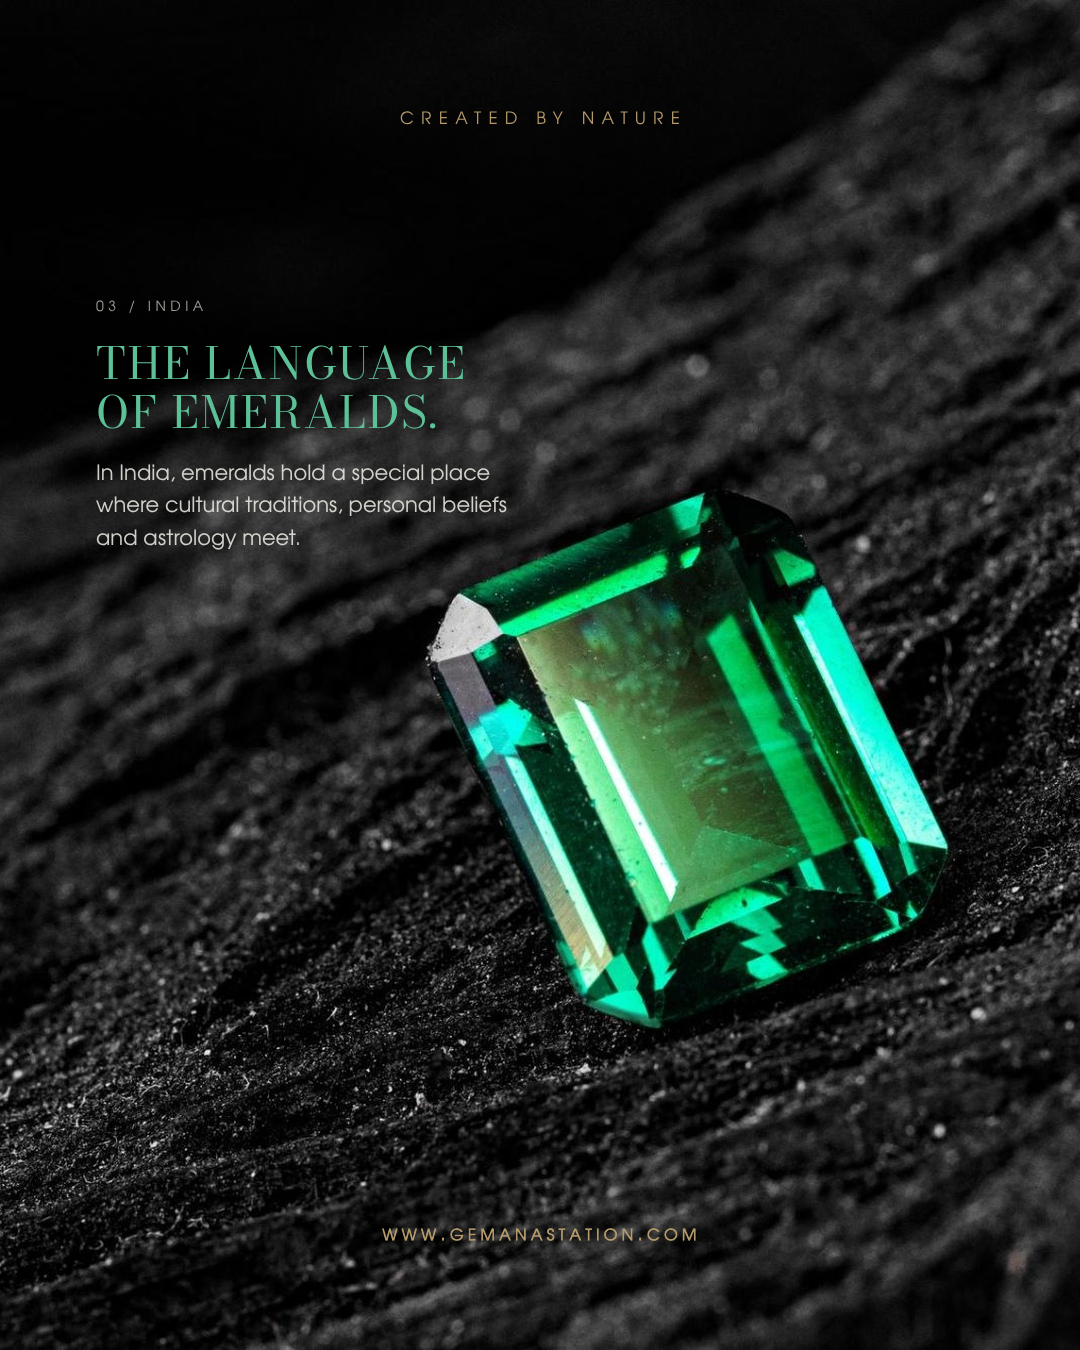
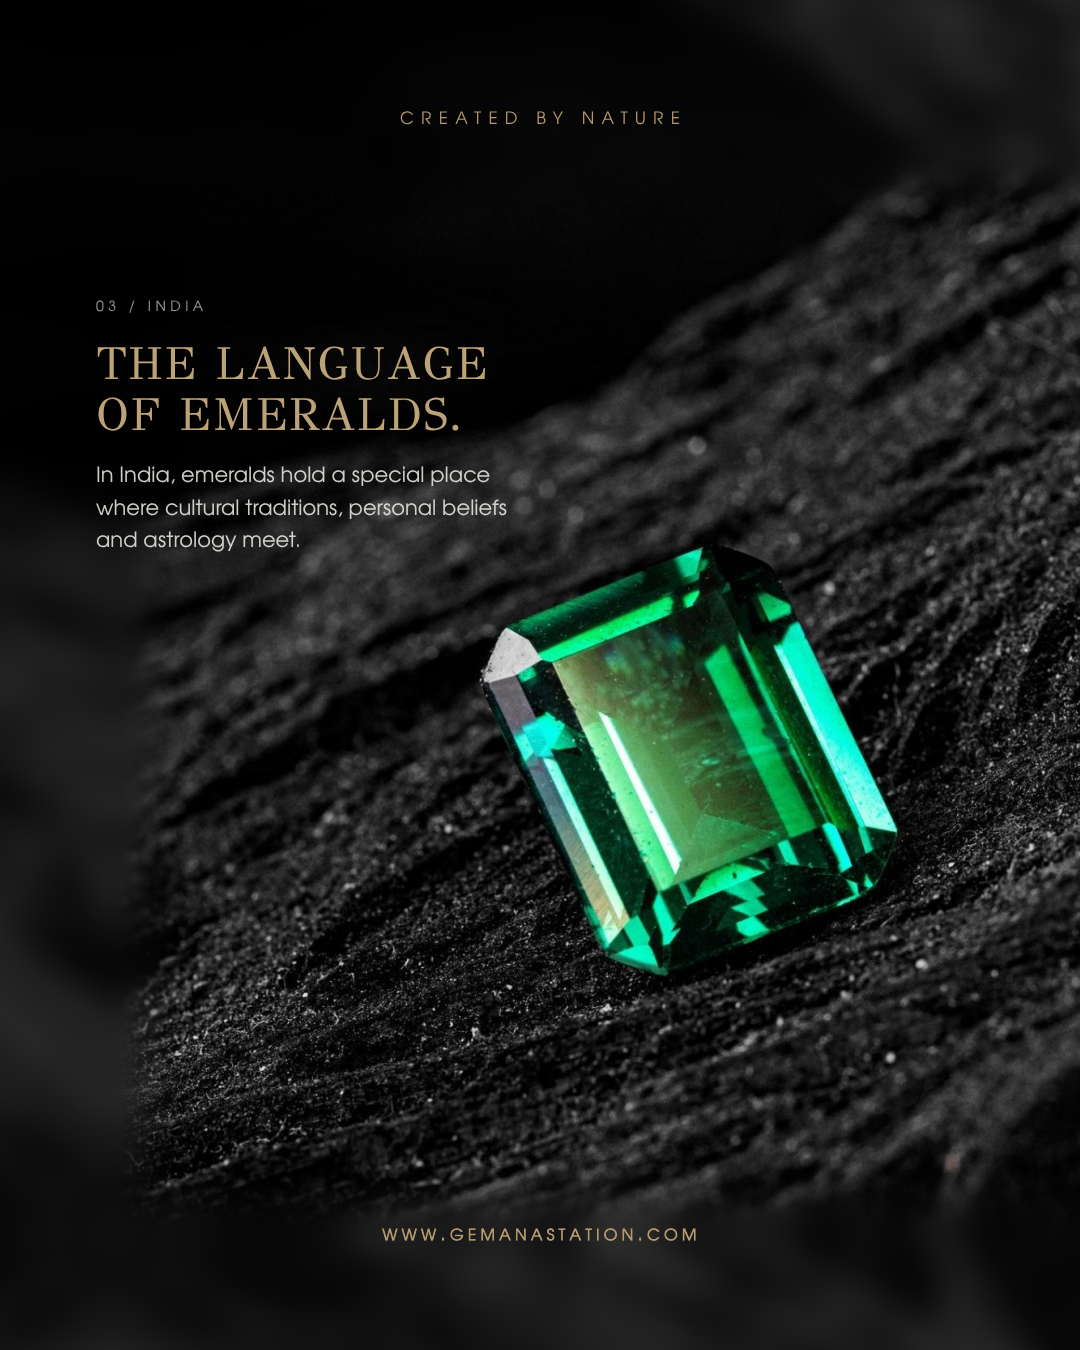
Cultural Choice: smaller stones, gold GFS Didot headlines
Claude-Session: https://claude.ai/code/session_01DPJpbdE4xE8Jg3JGMEEyZy

diff --git a/gem-anastation-reels/cultural_choice/slides.html b/gem-anastation-reels/cultural_choice/slides.html
@@ -11,15 +11,18 @@
   .group { position: absolute; width: 440px; }
   .idx { font-family: "AvantGarde"; font-size: 14px; letter-spacing: .32em; text-transform: uppercase;
     color: rgba(236,232,224,.66); }
-  h1 { margin: 22px 0 0; font-family: "Didot Title"; font-weight: 400; font-size: 44px; line-height: 1.12;
-    letter-spacing: .04em; text-transform: uppercase; }
+  /* Headlines: GFS Didot (a Didot revival; the licensed Linotype Didot can
+     replace it via this @font-face), regular, gold #BBA375 */
+  @font-face { font-family: "GFS Didot"; src: url(../founder/fonts/GFSDidot-Regular.ttf); }
+  h1 { margin: 22px 0 0; font-family: "GFS Didot"; font-weight: 400; font-size: 46px; line-height: 1.1;
+    letter-spacing: .03em; text-transform: uppercase; color: #BBA375; }
   p { margin: 22px 0 0; font-family: "AvantGarde"; font-size: 21px; line-height: 1.55; color: rgba(240,237,231,.86); }
 </style></head><body>
 <section class="slide" id="s01_jade" style="background-image:url(build/01_jade.jpg)">
   <div class="rubric">Created by Nature</div>
   <div class="group" style="left:96px; top:236px; width:440px; text-align:left">
     <div class="idx">01 / China</div>
-    <h1 style="color:#86C29C">Green is more<br>than a color.</h1>
+    <h1>Green is more<br>than a color.</h1>
     <p>In Chinese tradition, jade symbolizes virtue, protection and enduring value.</p>
   </div>
   <img class="url" src="build/url_on_dark.png" alt="www.gemanastation.com">
@@ -28,7 +31,7 @@
   <div class="rubric">Created by Nature</div>
   <div class="group" style="right:96px; top:196px; width:380px; text-align:right">
     <div class="idx">02 / Southeast Asia</div>
-    <h1 style="color:#D46A5E">The power<br>of red.</h1>
+    <h1>The power<br>of red.</h1>
     <p>Across Southeast Asia, rubies and red spinels have long been treasured for their beauty and associations with vitality and good fortune.</p>
   </div>
   <img class="url" src="build/url_on_dark.png" alt="www.gemanastation.com">
@@ -37,7 +40,7 @@
   <div class="rubric">Created by Nature</div>
   <div class="group" style="left:96px; top:300px; width:440px; text-align:left">
     <div class="idx">03 / India</div>
-    <h1 style="color:#5CC197">The language<br>of emeralds.</h1>
+    <h1>The language<br>of emeralds.</h1>
     <p>In India, emeralds hold a special place where cultural traditions, personal beliefs and astrology meet.</p>
   </div>
   <img class="url" src="build/url_on_dark.png" alt="www.gemanastation.com">
@@ -46,16 +49,16 @@
   <div class="rubric">Created by Nature</div>
   <div class="group" style="right:96px; top:975px; width:560px; text-align:right">
     <div class="idx">04 / Asia today</div>
-    <h1 style="color:#E0955A">Tradition evolves.</h1>
+    <h1>Tradition evolves.</h1>
     <p>From vivid orange spessartines to neon-blue gemstones, contemporary tastes are expanding Asia’s traditional color palette.</p>
   </div>
   <img class="url" src="build/url_on_dark.png" alt="www.gemanastation.com">
 </section>
 <section class="slide" id="s05_sapphire" style="background-image:url(build/05_sapphire.jpg)">
   <div class="rubric">Created by Nature</div>
-  <div class="group" style="left:96px; top:236px; width:560px; text-align:left">
+  <div class="group" style="right:96px; top:236px; width:560px; text-align:right">
     <div class="idx">05 / Personal choice</div>
-    <h1 style="color:#7F9BE0">Beyond color.<br>Beyond tradition.</h1>
+    <h1>Beyond color.<br>Beyond tradition.</h1>
     <p>Every gemstone choice is personal. Culture inspires it. Individuality defines it.</p>
   </div>
   <img class="url" src="build/url_on_dark.png" alt="www.gemanastation.com">

diff --git a/gem-anastation-reels/cultural_choice/tools/crop.py b/gem-anastation-reels/cultural_choice/tools/crop.py
@@ -1,15 +1,44 @@
-"""Fit each photo to 1080×1350 by uniform scale to the full height and a
-horizontal crop that puts the stone on its side (no distortion, no edits).
+"""Fit each photo to 1080×1350 with the stone 20 % smaller than full-height
+fit: the photo is scaled uniformly (never distorted, never edited) and placed
+so the stone keeps its slide position (R/L/R/L/R). Where the smaller photo no
+longer reaches the slide edge, the frame is continued with a mirrored copy of
+the photo's own edge, softly blurred and darkened (a depth-of-field falloff),
+blended over 70 px — the stone and its surroundings are original pixels.
 Usage: python3 tools/crop.py"""
 from pathlib import Path
 import cv2
+import numpy as np
+
 ROOT = Path(__file__).resolve().parents[1]
-OFFSETS = {"01_jade": 210, "02_ruby": 360, "03_emerald": 33, "04_spessartine": 263, "05_sapphire": 662}
-for name, off in OFFSETS.items():
-    im = cv2.imread(str(ROOT / "sources" / f"{name}.jpg"))
-    s = 1350 / im.shape[0]
-    im = cv2.resize(im, (round(im.shape[1] * s), 1350), interpolation=cv2.INTER_LANCZOS4 if s > 1 else cv2.INTER_AREA)
-    out = im[:, off:off + 1080]
-    assert out.shape[1] == 1080, name
-    cv2.imwrite(str(ROOT / "build" / f"{name}.jpg"), out, [cv2.IMWRITE_JPEG_QUALITY, 96])
-    print(name, f"scale {s:.3f}")
+SHRINK = 0.80
+# name: stone centre in the source (x, y) and its target position on the slide
+STONES = {
+    "01_jade":        ((984, 735), (700, 680)),
+    "02_ruby":        ((678, 645), (330, 660)),
+    "03_emerald":     ((724, 753), (700, 763)),
+    "04_spessartine": ((518, 547), (420, 721)),
+    "05_sapphire":    ((497, 256), (760, 733)),
+}
+PAD = 900
+for name, ((sx, sy), (tx, ty)) in STONES.items():
+    im = cv2.imread(str(ROOT / "sources" / f"{name}.jpg")).astype(np.float32)
+    s = 1350 / im.shape[0] * SHRINK
+    im = cv2.resize(im, (round(im.shape[1] * s), round(im.shape[0] * s)),
+                    interpolation=cv2.INTER_LANCZOS4 if s > 1 else cv2.INTER_AREA)
+    h, w = im.shape[:2]
+    dx, dy = round(tx - sx * s), round(ty - sy * s)
+    big = cv2.copyMakeBorder(im, PAD, PAD, PAD, PAD, cv2.BORDER_REFLECT)
+    soft = cv2.GaussianBlur(big, (0, 0), 18) * 0.82
+    # distance outside the photo rectangle -> blend weight of the soft fill
+    yy, xx = np.mgrid[0:big.shape[0], 0:big.shape[1]]
+    ox = np.maximum(np.maximum(PAD - xx, xx - (PAD + w - 1)), 0)
+    oy = np.maximum(np.maximum(PAD - yy, yy - (PAD + h - 1)), 0)
+    inside_edge = np.minimum(np.minimum(xx - PAD, PAD + w - 1 - xx), np.minimum(yy - PAD, PAD + h - 1 - yy))
+    t = np.where((ox == 0) & (oy == 0), np.clip(1 - inside_edge / 70.0, 0, 1), 1.0)
+    t = (t * t * (3 - 2 * t))[..., None]
+    comp = big * (1 - t) + soft * t
+    x0, y0 = PAD - dx, PAD - dy
+    out = comp[y0:y0 + 1350, x0:x0 + 1080]
+    assert out.shape[:2] == (1350, 1080), name
+    cv2.imwrite(str(ROOT / "build" / f"{name}.jpg"), out.clip(0, 255).astype(np.uint8), [cv2.IMWRITE_JPEG_QUALITY, 96])
+    print(f"{name}: scale {s:.3f}, photo at ({dx},{dy}) size {w}x{h}")

diff --git a/gem-anastation-reels/cultural_choice/README.md b/gem-anastation-reels/cultural_choice/README.md
@@ -2,13 +2,14 @@
 
 `python3 tools/crop.py && NODE_PATH=$(npm root -g) node tools/build.mjs`
 
-- Photos: uniform scale to full height, horizontal crop only (stone R/L/R/L/R).
+- Photos: uniform scale (stones 20 % smaller than a full-height fit), stone kept
+  on its side (R/L/R/L/R); where the photo no longer reaches an edge, a mirrored,
+  blurred, darkened continuation of its own edge fills the frame.
 - Navigation: CREATED BY NATURE (post rule, y 112, AvantGarde caps 17 px 0.42 em, #B4996C);
   website line text top y 1228, #B4996C.
-- Editorial group: index rubric AvantGarde caps 14 px 0.32 em; headline Didot
-  Regular caps 44 px in the stone's colour (jade #86C29C, ruby #D46A5E,
-  emerald #5CC197, spessartine #E0955A, sapphire #7F9BE0); copy AvantGarde 21 px / 1.55.
+- Editorial group: index rubric AvantGarde caps 14 px 0.32 em; headline GFS Didot
+  caps 46 px, gold #BBA375; copy AvantGarde 21 px / 1.55.
 - Placement: 01 upper-left, 02 upper-right (higher), 03 upper-left (lower),
-  04 lower-right, 05 upper-left wide.
+  04 lower-right, 05 upper-right wide.
 
 Cover (00): `python3 tools/cover.py` — banana-flower photo full bleed (scale 1.556 to width, crop top 120), website line on the cover rule (text top y 1228, centred, tinted to the photo). No other text.
